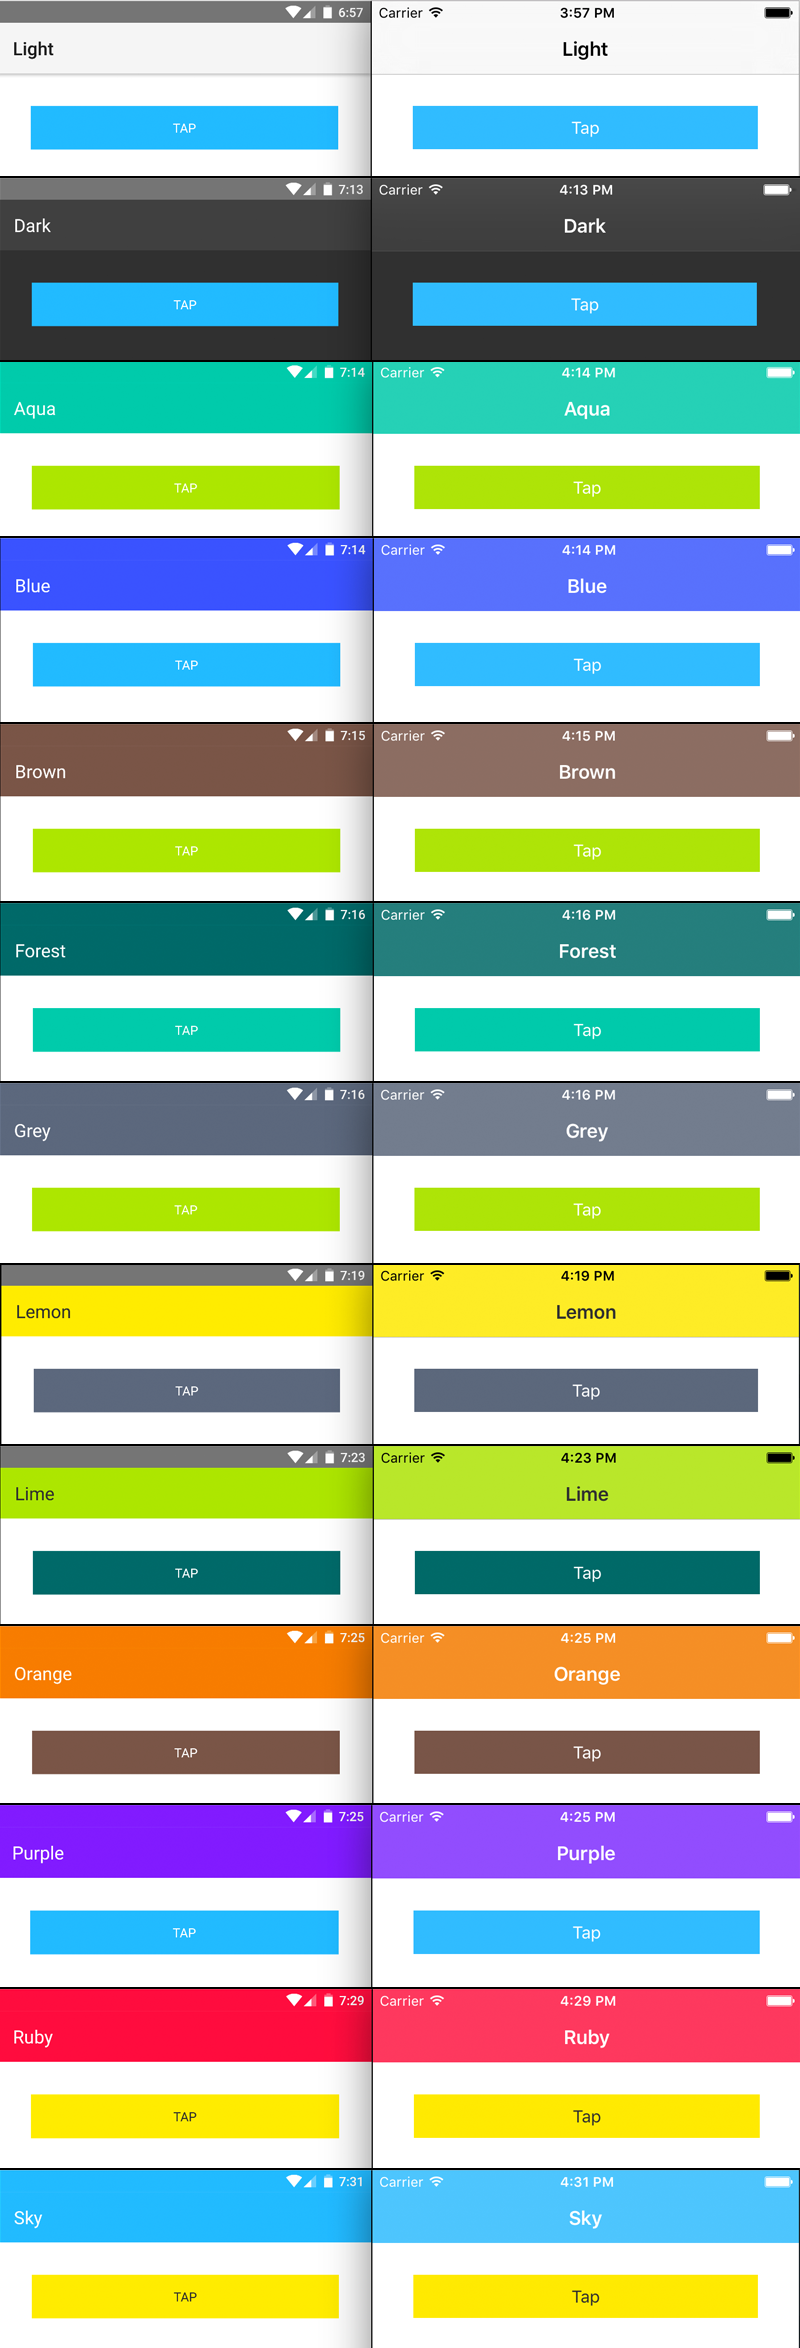
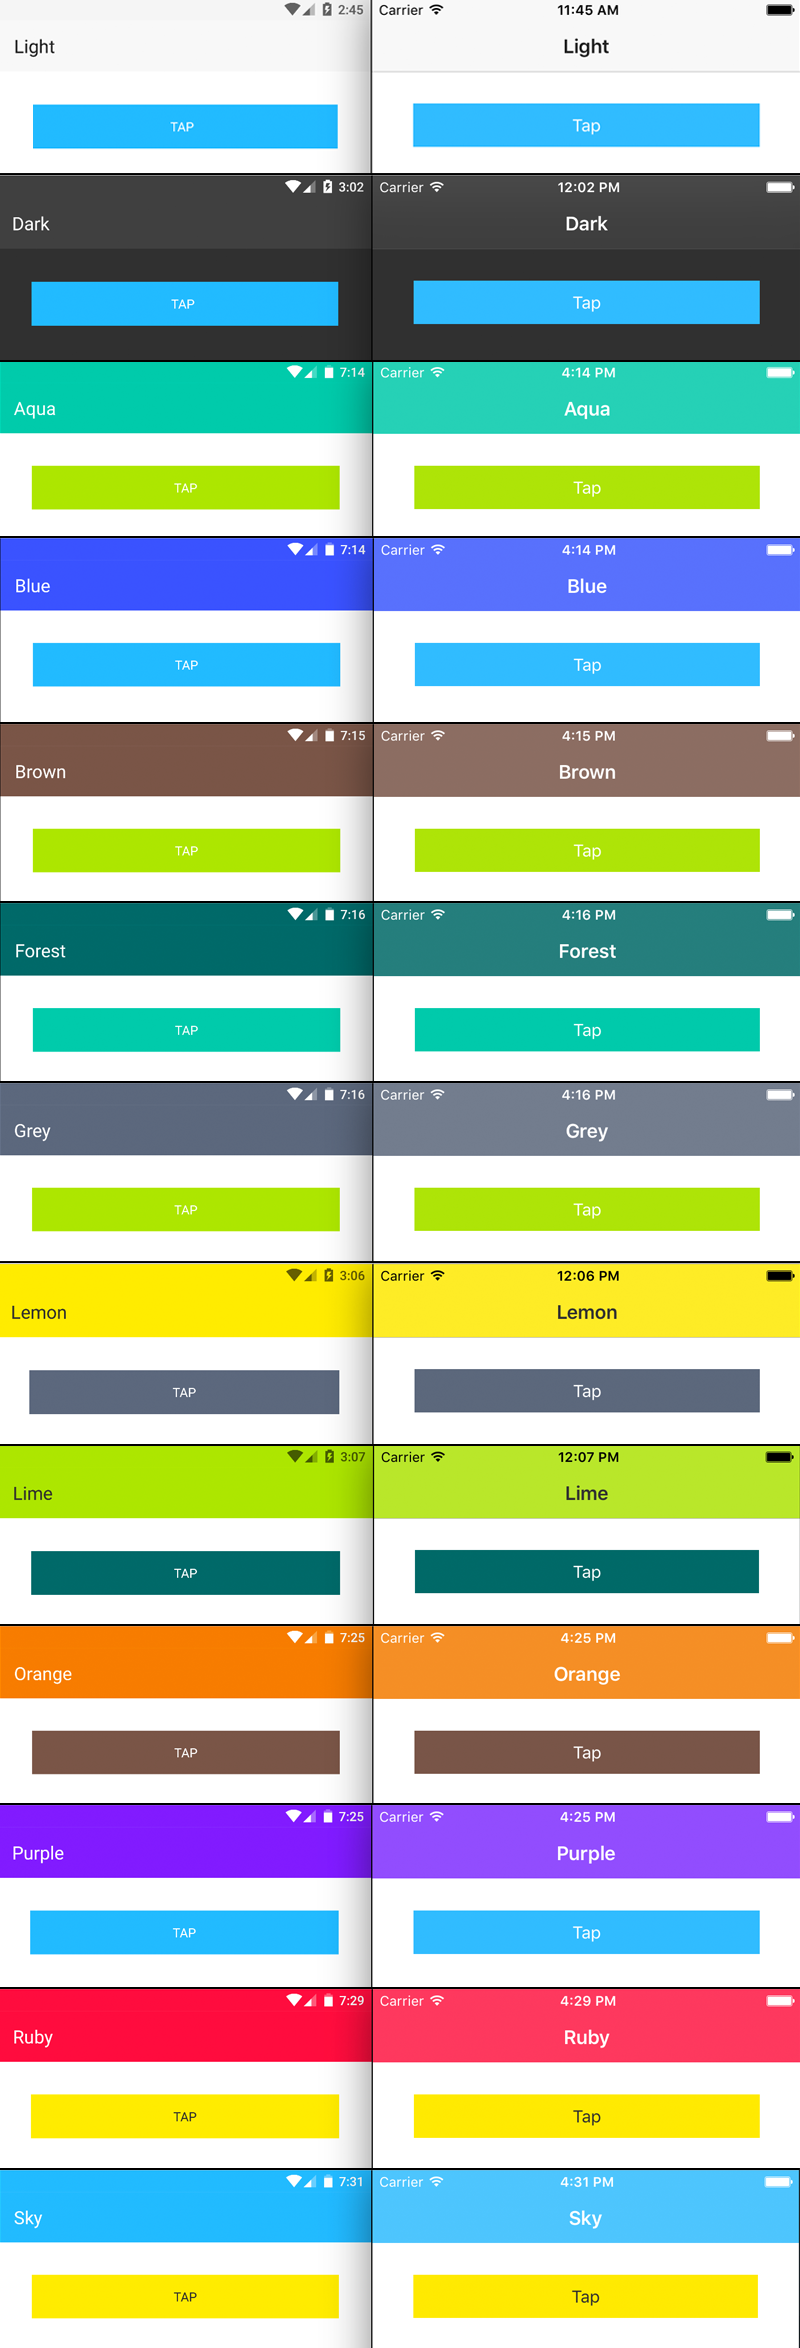
Adding more detail on setting the status bar colors for Android

diff --git a/ui/theme.md b/ui/theme.md
@@ -700,8 +700,8 @@ Android API levels 21+ (Lollipop and above) let you set the status bar to use an
 
 | Color Scheme | ns_primaryDark value |
 | ------------ | -------------------- |
-| Light        | #6A6A6A              |
-| Dark         | #6A6A6A              |
+| Light        | #F8F8F8              |
+| Dark         | #303030              |
 | Aqua         | #00caab              |
 | Blue         | #3d5afe              |
 | Brown        | #795548              |
@@ -713,6 +713,38 @@ Android API levels 21+ (Lollipop and above) let you set the status bar to use an
 | Orange       | #f57c00              |
 | Ruby         | #ff1744              |
 | Sky          | #30bcff              |
+
+Additionally, when using the light color scheme, include the following code in your `app.js` file. The code sets Android’s `SYSTEM_UI_FLAG_LIGHT_STATUS_BAR` flag, which makes all icons in the status bar use a color that’s visible on the light background.
+
+``` JavaScript
+var application = require("application");
+var platform = require("platform");
+
+if (platform.isAndroid && platform.device.sdkVersion >= "21") {
+  application.android.onActivityStarted = function() {
+    var window = application.android.startActivity.getWindow();
+    var decorView = window.getDecorView();
+    decorView.setSystemUiVisibility(android.view.View.SYSTEM_UI_FLAG_LIGHT_STATUS_BAR);
+  }
+}
+
+// Your application.start() call goes here.
+```
+``` TypeScript
+import * as application from "application";
+import * as platform from "platform";
+declare var android: any;
+
+if (platform.isAndroid && platform.device.sdkVersion >= "21") {
+  application.android.onActivityStarted = function() {
+    let window = application.android.startActivity.getWindow();
+    let decorView = window.getDecorView();
+    decorView.setSystemUiVisibility(android.view.View.SYSTEM_UI_FLAG_LIGHT_STATUS_BAR);
+  }
+}
+
+// Your application.start() call goes here.
+```
 
 ## Uninstalling
 
